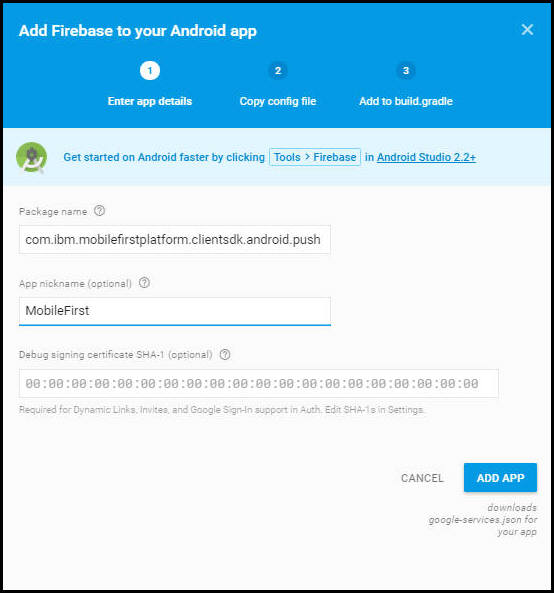
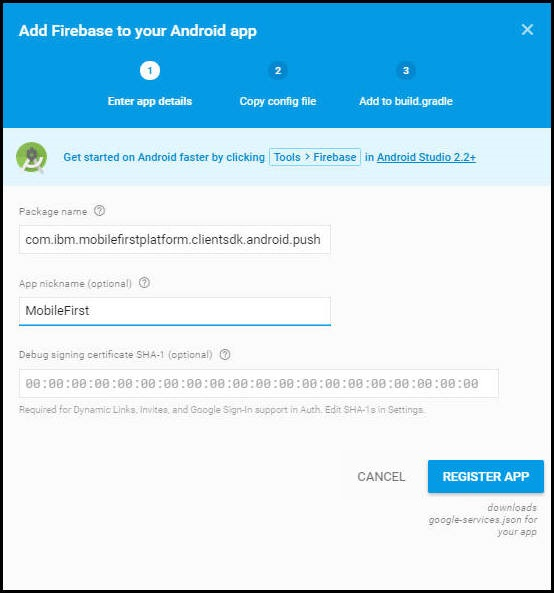
fixed - usabilla issue 1970

diff --git a/push_step_1.md b/push_step_1.md
@@ -43,11 +43,11 @@ You would also need to generate the `google-services.json` file. Complete the fo
 
 3. Select **ADD APP** or **Add Firebase to your Android app** icon from the General tab on the Your apps pane.
     
-4. In Add Firebase to your Android app window, add **com.ibm.mobilefirstplatform.clientsdk.android.push** as the Package Name. The App nickname field is optional. Click **ADD APP**. 
+4. In Add Firebase to your Android app window, first add **com.ibm.mobilefirstplatform.clientsdk.android.push**  as the Package Name. The App nickname field is optional. Click **REGISTER APP**. 
     
 	![Adding Firebase to your Android window](images/FCM_1.jpg)
 
-5. Include the package name of your application, by entering the package name in Add Firebase to your Android app window. The App nickname field is optional. Click **REGISTER APP**. 
+5. Now, include the package name of your application, by entering the package name in Add Firebase to your Android app window. The App nickname field is optional. Click **REGISTER APP**.  Below is an example -
 
 	![Adding the package name of your application](images/FCM_settings_4.jpg)
 
